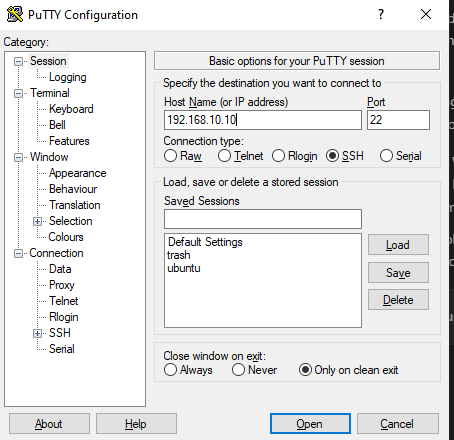
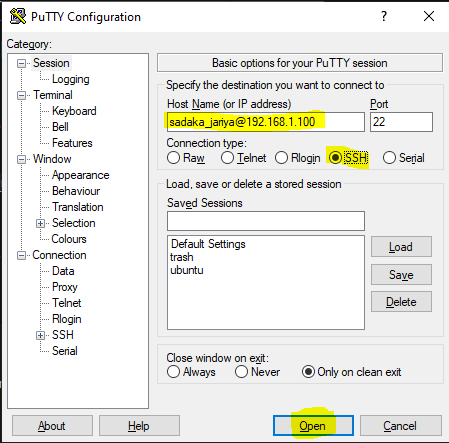
Hands On & Maintenance: configure static ip address on SD card, use it to connect to the raspberry.

Changed region(s): [[0.0, 0.0, 1.0, 1.0], [0.3742, 0.7386, 0.8107, 0.7682], [0.6548, 0.8273, 0.9042, 0.8568]]

diff --git a/02_hands_on_platform/README.md b/02_hands_on_platform/README.md
@@ -2,61 +2,81 @@
 
 To start, power up the hardware platform using the dedicated power supply.
 
-## Hands-On Raspberry Pi
 
-### Step 1: connecting to the Raspberry Pi
+# Chapter 1: connecting to the Raspberry Pi
 
-#### Identifying the IP address of the Raspberry Pi
+## The Raspberry Pi IP address
 
-On your personal computer (windows, mac, or linux) install Wireshark.
+The raspberry pi is supposed to have a static IP address of `192.168.1.100/24`.
 
-Connect the Raspberry Pi to your computer using an Ethernet cable. Then, open Wireshark as administrator and start capturing packets on the Ethernet interface.
+But, just to make sure, lets use Wireshark to sniff the network and find the IP address of the Raspberry Pi.
 
-![Wireshark Ethernet Interface](../.images/02_hands_on_platform/wireshark_ethernet.PNG)
+<details>
+<summary><strong>Here is how</strong></summary>
 
-Filter the packet to only show ARP packets and unplug and plug the Ethernet cable from the Raspberry Pi to your computer.
+1. Turn OFF the Raspberry Pi.
+2. Install Wireshark on your computer if you don't have it already.
+3. Open Wireshark as administrator.
+4. Start capturing on the Ethernet interface that is connected to the Raspberry Pi.
 
-![Wireshark ARP Filter](../.images/02_hands_on_platform/wireshark_arp_filter.PNG)
+![Wireshark Capture](../.images/02_hands_on_platform/wireshark_ethernet.PNG)
 
-The IP address of the Raspberry Pi should be visible in the ARP packets. You can then use this IP address to connect to the Raspberry Pi using SSH.
+5. Power on the Raspberry Pi.
+6. Filter the captured packets with "arp" filter.
 
-#### Configure your computer to be in the same subnet as the Raspberry Pi
+![Wireshark ARP Filter](../.images/02_hands_on_platform/wireshark_arp_raspberry.PNG)
 
-Configure your computer to be in the same subnet as the Raspberry Pi (for example, if the IP address of the Raspberry Pi is `192.168.10.10`):
+7. You should see an ARP request from the Raspberry Pi like the picture above.
 
-Windows (GUI method):
+</details>
+
+
+## Configure your computer to be in the same subnet as the Raspberry Pi
+
+Configure your computer to be in the same subnet as the Raspberry Pi (for example, if the IP address of the Raspberry Pi is `192.168.1.100`):
+
+<details>
+<summary><strong>Windows (GUI method)</strong></summary>
+
 1. Open Control Panel → Network and Internet → Network and Sharing Center
 2. Click Change adapter settings
 3. Right-click your Ethernet adapter → Properties
 4. Select Internet Protocol Version 4 (IPv4) → click Properties
 5. Choose Use the following IP address
 6. Enter:
-    IP address: 192.168.10.20
-    Subnet mask: 255.255.255.0
-    Default gateway: (optional, e.g. 192.168.10.1)
-    Click OK
+   - IP address: 192.168.1.20     (use the same xxx.xxx.xxx as the Raspberry Pi and yyy a different number than Raspberry Pi between 2 and 253)
+   - Subnet mask: 255.255.255.0
+   - Default gateway: (optional, e.g. 192.168.1.1)
+   - Click OK
 
-Windows (Command Line):
+</details>
+
+<details>
+<summary><strong>Windows (Command Line)</strong></summary>
 
 1. Open Command Prompt as administrator:
+
 ```cmd
-netsh interface ip set address name="Ethernet" static 192.168.10.20 255.255.255.0
+netsh interface ip set address name="Ethernet" static 192.168.1.20 255.255.255.0
 ```
 
 (Replace "Ethernet" with your adapter name if different.)
 
-Linux (temporary setting using ip command):
+</details>
+
+<details>
+<summary><strong>Linux (temporary setting using ip command)</strong></summary>
 
 Run in terminal:
 
 ```bash
-sudo ip addr add 192.168.10.20/24 dev eth0
+sudo ip addr add 192.168.1.20/24 dev eth0
 sudo ip link set eth0 up
 ```
 
-/24 means that the subnet mask is 255.255.255.0.
+`/24` means that the subnet mask is 255.255.255.0.
 
-Replace eth0 with your interface (e.g. enp3s0, ens33)
+Replace `eth0` with your interface (e.g. `enp3s0`, `ens33`)
 
 Check interface names with:
 
@@ -64,31 +84,44 @@ Check interface names with:
 ip a
 ```
 
-#### Connect to the Raspberry Pi using SSH
+</details>
+
+
+## Connect to the Raspberry Pi using SSH
 
 Depending on your operating system, you can use different tools to connect to the Raspberry Pi using SSH:
 - On Windows, you can use [PuTTY](https://www.chiark.greenend.org.uk/~sgtatham/putty/latest.html).
 - On Mac and Linux, you can use the terminal and the `ssh` command.
 
-for example, if the IP address of the Raspberry Pi is `192.168.10.10`, you can connect to it using the following steps:
+for example, if the IP address of the Raspberry Pi is `192.168.1.100`, you can connect to it using the following steps:
 
-Windows (using PuTTY):
+<details>
+<summary><strong>Windows (using PuTTY)</strong></summary>
+
 1. Open PuTTY.
 2. Enter the IP address of the Raspberry Pi in the "Host Name (or IP address)" field.
 3. Click "Open" to start the SSH session.
 
 ![PuTTY SSH Connection](../.images/02_hands_on_platform/putty_ssh.PNG)
 
-Mac and Linux (using terminal):
+</details>
+
+<details>
+<summary><strong>Mac and Linux (using terminal)</strong></summary>
+
 1. Open the terminal.
 2. Use the `ssh` command to connect to the Raspberry Pi
+
 ```bash
-ssh 192.168.10.10
+ssh sadaka_jariya@192.168.1.100
 ```
 
-In both cases, you will be prompted to enter the username and password for the Raspberry Pi. You can find these credentials on a sticker attached next to the Raspberry Pi.
+</details>
 
-### Step 2: Connect to Wi-Fi
+In both cases, you will be prompted to enter the username and password for the Raspberry Pi.
+You can find these credentials on a sticker attached next to the Raspberry Pi.
+
+## Connect Raspberry Pi to Wi-Fi
 
 Once you are connected to the Raspberry Pi, you can connect it to a Wi-Fi network using the following steps:
 1. Open the terminal on the Raspberry Pi.
@@ -103,27 +136,42 @@ ip a
 ```
 You should see an IP address assigned to the Wi-Fi interface (usually `wlan0`).
 
-You can now disconnect the Ethernet cable from the Raspberry Pi and continue to use the Wi-Fi connection to access it using this IP address.
+## Connect to the Raspberry Pi using Wi-Fi
 
-### Step 3: Python Hello World
+Use the Raspberry Pi's Wi-Fi IP address to connect to it using SSH, just like you did with the Ethernet connection. In a whole new terminal / putty.
 
-Once you are connected to the Raspberry Pi, create your own directory and navigate to it:
+Once you connected to the Raspberry Pi using Wi-Fi, you can disconnect the Ethernet cable and continue working with the Raspberry Pi over Wi-Fi.
+
+
+## First Linux commands
+
+Update the apt package manager and install some useful tools:
+
+```bash
+sudo apt update
+sudo apt upgrade
+```
+
+Create your own directory and navigate to it:
 ```bash
 mkdir workspace_your_name
 cd workspace_your_name
 ```
 
-Then, create a simple Python script to print "Hello World" to the console:
+
+## Python Hello World
+
+From your workspace directory, create a simple Python script to print "Hello World" to the console:
 ```bash
 echo 'print("Hello World")' > hello_world.py
 ```
 
-Finally, run the Python script:
+Then, run the Python script:
 ```bash
 python3 hello_world.py
 ```
 
-### Step 4: Blinky
+## Blinky
 
 Now, let's make the three LEDs connected to the raspberry pi blink. To do this, we will use the gpiod library.
 
@@ -166,7 +214,7 @@ Use nano as text editor to create the script. run this command in the terminal:
 nano blink_leds.py
 ```
 
-Then, add the following code to the script (copy this script and paste it into the nano editor using right-click):
+Then, add the following code to the script (copy this script and paste it into the nano editor using right-click or ctrl+shift+v):
 
 ```python
 import time
@@ -193,7 +241,6 @@ try:
     print("Blinking LED... Press Ctrl+C to stop.")
     while True:
         pi.write(GREEN_LED_PIN, 1) # ON
-        pi.write(GREEN_LED_PIN, 1) # ON
         pi.write(RED_LED_PIN, 1) # ON
         pi.write(YELLOW_LED_PIN, 1) # ON
         time.sleep(0.5)
@@ -218,9 +265,9 @@ Finally, run the script:
 python3 blink_leds.py
 ```
 
-## Hands-On STM32 Nucleo
+# Chapter 2: Hands-On STM32 Nucleo
 
-### Step 1: installing the IDE
+## Step 1: installing the IDE
 
 Download from the [Official Website](https://www.st.com/en/development-tools/stm32cubeide.html#section-get-software-table) the STM32CubeIDE and install it on your computer.
 
@@ -228,7 +275,7 @@ I recommend installing this version of STM32CubeIDE:
 
 ![STM32CubeIDE Version](../.images/02_hands_on_platform/stm32_cubeide_dowload.PNG)
 
-### Step 2: creating the project
+## Step 2: creating the project
 
 Open STM32CubeIDE and create a new STM32 project. 
 
@@ -242,11 +289,11 @@ Give a name to your project and click "Finish".
 
 ![STM32CubeIDE Project Name](../.images/02_hands_on_platform/cube_ide_project_name.PNG)
 
-Yous should now have a new project created in STM32CubeIDE with this workspace structure:
+You should now have a new project created in STM32CubeIDE with this workspace structure:
 
 ![STM32CubeIDE Workspace](../.images/02_hands_on_platform/cube_ide_tree.PNG)
 
-### Step 3: Blinky
+## Step 3: Blinky
 
 Now, let's make the Built In LED of the STM32 Nucleo board blink. To do this, we will use the STM32CubeIDE to configure the GPIO pin connected to the LED and write a simple program to toggle it.
 
@@ -286,16 +333,9 @@ After hitting the build button, you should see in the "Debug" folder of your pro
 
 ![STM32CubeIDE Build Output](../.images/02_hands_on_platform/cube_ide_build_result.PNG)
 
-### Step 4: Flashing the Microcontroller
+## Step 4: Flashing the Microcontroller
 
-#### Option 1: Flashing with CubeIDE
-Please do not use this method, I want you to be able to work with ZERO cable connected between your computer and the the whole platform, and for this, you need to be able to flash the microcontroller using the Raspberry Pi.
-
-Just WiFi connection between your computer and the Raspberry Pi is enough to flash the microcontroller using the Raspberry Pi as a bridge.
-
-To flash the microcontroller using CubeIDE, you can use the "Debug" configuration to flash the .elf file directly to the microcontroller. This method is straightforward and does not require any additional tools. Except installing the drivers for the ST-Link programmer, which is used to flash the microcontroller. If not done automatically during the installation of CubeIDE, you can download and install the drivers from the [ST-Link website](https://www.st.com/en/development-tools/stsw-link009.html).
-
-#### option 2: Flashing with the Raspberry Pi
+### Flashing with the Raspberry Pi
 
 1. Install the tools:
 
@@ -304,11 +344,27 @@ sudo apt update
 sudo apt install stlink-tools
 ```
 
-1. Transfer the .bin file from your computer to the Raspberry Pi using
-- scp command for linux and mac,
-- winscp app interface for windows (install it).
+2. Transfer the .bin file from your computer to the Raspberry Pi using
 
-2. Flash the file:
+<details>
+<summary><strong>scp command for linux and mac</strong></summary>
+
+```Bash
+scp path_to_your_file.bin sadaka_jariya@192.168.1.100:/home/sadaka_jariya/workspace_your_name
+```
+
+</details>
+
+<details>
+<summary><strong>WinSCP app interface for windows (install it).</strong></summary>
+
+Install it, and transfer the .bin file from your computer to the Raspberry Pi using the app interface. Just enter the IP address of the Raspberry Pi, username and password, and then navigate to the workspace directory and upload the .bin file.
+
+Check Youtube for tutorials on how to use WinSCP to transfer files to a Raspberry Pi.
+
+</details>
+
+3. Flash the file:
 Plug in your Nucleo via USB to the Raspberry Pi and run:
 ```Bash
 st-flash write your_file.bin 0x08000000